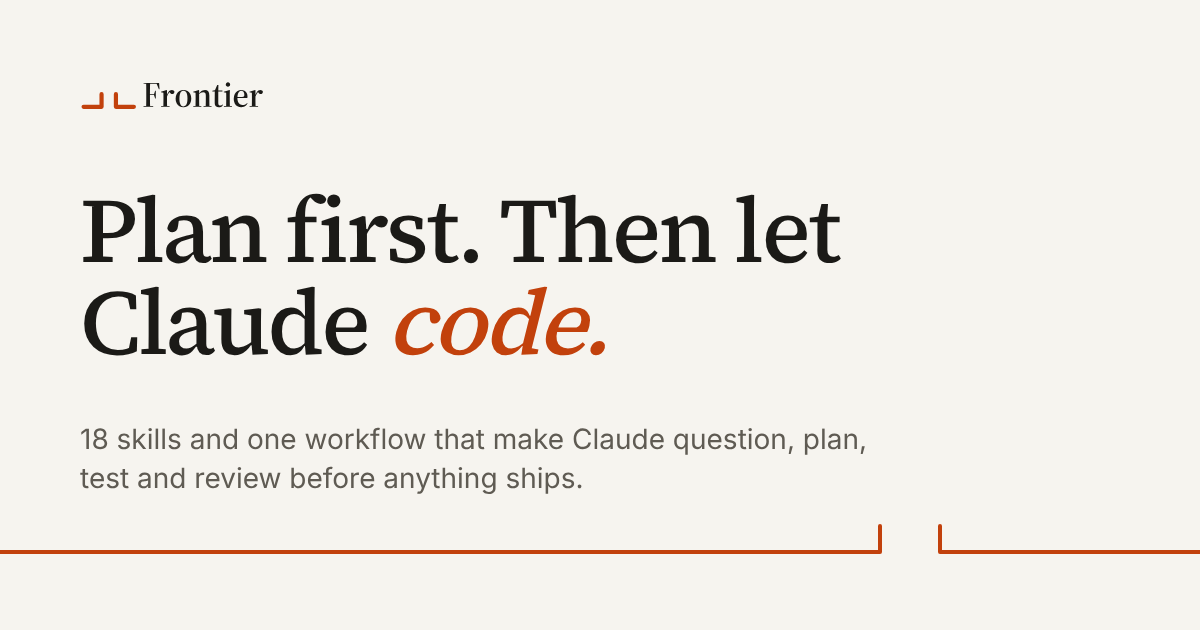
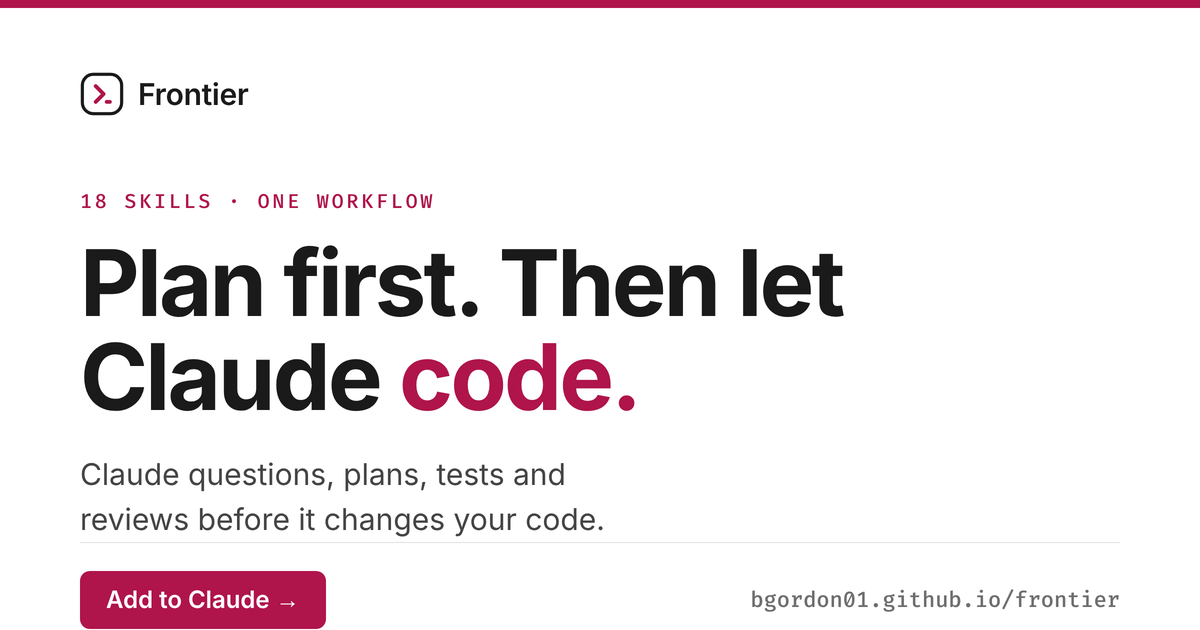
Set up issue tracker; restyle brand assets and docs to the new identity
Setup (setup-matt-pocock-skills): add docs/agents/issue-tracker.md
(GitHub) and docs/agents/domain.md (single-context), and an
"## Agent skills" block in CLAUDE.md. Triage skill isn't installed, so
no label vocabulary was written.

Brand: replace the transit "gate" mark and Source Serif / Overpass
wordmark with the landing page's command-prompt mark (a crimson chevron
+ cursor in a rounded square) and the Inter wordmark. Rebuild
logo{,-on-light,-on-dark}.svg, mark.svg, favicon.svg, and regenerate
favicon-32 / apple-touch-icon / icon-512 / logo.png and a new
crimson/Inter og.png social card.

Docs: update README (via the SVGs), MAINTAINING.md, PRODUCT.md and
docs/frontier/SPEC.md from orange #C2410C / Overpass to crimson #AF144B
/ Inter + Fira Code, and from the transit-diagram page to the shipped
shell + step-list + review-gate layout. DESIGN.md is refreshed
separately via /impeccable document.

Claude-Session: https://claude.ai/code/session_01HRiM7pjDxH7VSkwez6EBS9

diff --git a/docs/agents/issue-tracker.md b/docs/agents/issue-tracker.md
@@ -1,0 +1,39 @@
+# Issue tracker: GitHub
+
+Issues and specs for this repo live as GitHub issues. Use the `gh` CLI for all operations.
+
+## Conventions
+
+- **Create an issue**: `gh issue create --title "..." --body "..."`. Use a heredoc for multi-line bodies.
+- **Read an issue**: `gh issue view <number> --json number,title,body,labels,comments`.
+- **List issues**: `gh issue list --state open --json number,title,body,labels,comments --jq '[.[] | {number, title, body, labels: [.labels[].name], comments: [.comments[].body]}]'` with appropriate `--label` and `--state` filters.
+- **Make an issue a sub-issue of a parent**: `gh issue create --parent <parent> ...`, or `gh issue edit <parent> --add-sub-issue <child>` afterwards (`gh` 2.94+). Older `gh`: `gh api --method POST repos/<owner>/<repo>/issues/<parent>/sub_issues -F sub_issue_id=<child-db-id>` (database id, as in **Blocking** below). Without sub-issues, put `Part of #<parent>` at the top of the child body.
+- **Blocking**: GitHub's **native issue dependencies**, the canonical, UI-visible representation. Add an edge with `gh issue create --blocked-by <n>,<n> ...` or `gh issue edit <child> --add-blocked-by <blocker>` (`gh` 2.94+). Older `gh`: `gh api --method POST repos/<owner>/<repo>/issues/<child>/dependencies/blocked_by -F issue_id=<blocker-db-id>`, where `<blocker-db-id>` is the blocker's numeric **database id** (`gh api repos/<owner>/<repo>/issues/<n> --jq .id`, _not_ the `#number` or `node_id`). Where dependencies aren't available, fall back to a `Blocked by: #<n>, #<n>` line at the top of the child body. A ticket is unblocked when every blocker is closed.
+- **Count open blockers**: `gh api repos/<owner>/<repo>/issues/<n> --jq .issue_dependencies_summary.blocked_by` (open blockers only; 0 means startable). `gh issue view <n> --json blockedBy` also lists closed blockers, so filter it: `--jq '[.blockedBy.nodes[] | select(.state == "OPEN")] | length'`.
+- **Comment on an issue**: `gh issue comment <number> --body "..."`
+- **Apply / remove labels**: `gh issue edit <number> --add-label "..."` / `--remove-label "..."`
+- **Close**: post the explanation with `gh issue comment <number> --body "..."`, then `gh issue close <number>`. On an already-closed issue, `gh issue close --comment` drops the comment and still exits 0.
+
+Infer the repo from `git remote -v`; `gh` does this automatically when run inside a clone. This repo is `bgordon01/frontier`.
+
+File issues only into the user's own repo. Never file into `mattpocock/skills` (the repo these skills come from) unless the user owns it. In a fork, `gh` can default to the upstream parent, so before the first `gh issue create` of a session, check the target with `gh repo view --json nameWithOwner` and confirm it with the user if it is not their repo.
+
+## Pull requests as a triage surface
+
+**PRs as a request surface: no.** _(Set to `yes` if this repo treats external PRs as feature requests; `/triage` reads this flag.)_
+
+When set to `yes`, PRs run through the same labels and states as issues, using the `gh pr` equivalents:
+
+- **Read a PR**: `gh pr view <number>`, then `gh pr view <number> --comments` (off a TTY, `--comments` prints only the comments, not the body), and `gh pr diff <number>` for the diff.
+- **List external PRs for triage**: `gh api --paginate 'repos/{owner}/{repo}/pulls?state=open' --jq '.[] | select(.author_association | IN("OWNER","MEMBER","COLLABORATOR") | not) | {number, title, author: .user.login, author_association, labels: [.labels[].name]}'`.
+- **Comment / label / close**: `gh pr comment`, `gh pr edit --add-label`/`--remove-label`, `gh pr close`.
+
+GitHub shares one number space across issues and PRs, so a bare `#42` may be either: resolve with `gh pr view 42` and fall back to `gh issue view 42`.
+
+## When a skill says "publish to the issue tracker"
+
+Create a GitHub issue.
+
+## When a skill says "fetch the relevant ticket"
+
+Read it as in **Read an issue** above.

diff --git a/docs/frontier/SPEC.md b/docs/frontier/SPEC.md
@@ -15,10 +15,10 @@ Decisions from the grilling session on 2026-11-01. Each line is settled unless m
   - After: grill → spec → tickets → build test-first → review.
 
 ## Structure (in order)
-1. Hero: "Plan first. Then let Claude code." / "18 skills and one workflow that make Claude question, plan, test and review before anything ships." / Add to Claude.
-2. Before/after contrast.
-3. Workflow diagram (the page's one bold element). Main path is "Build something new". Each step shows its skills and their author. Side routes: Improve an existing project, Fix a bug, Write copy.
-4. Review gates: "Nothing changes your files until you say go." Steps that change files carry a gate mark in the diagram.
+1. Hero: "Plan first. Then let Claude code." / sub / Add to Claude, with a review-gate product panel (a paused `/to-spec` step waiting on Go) and a mono stats row. The headline is the page's one bold element.
+2. "Nothing changes your files until you say go": reads-only steps run straight away, write steps wait.
+3. Six-step workflow (Grill → Spec → Tickets → Build → Review → Done), each step tagged reads-only or changes-files and credited to its author.
+4. Other ways in: improve a project, fix a bug, write or edit copy, design a screen.
 5. House rules, shown as the opinions Frontier enforces.
 6. Command table.
 7. Install block: Claude app, Claude Code, cloud sessions. Copy buttons.
@@ -38,17 +38,17 @@ The sets are mapped onto the single workflow, not shown as three equal sections.
 - House copy rules apply; `/stop-slop` runs over final copy.
 
 ## Visual
-- Warm paper and ink. Accent: deep orange `#C2410C` (dark mode `#F28C4B`).
-- Type: Source Serif 4 (headline), Inter (body), JetBrains Mono (commands).
-- Automatic dark mode.
-- 4px spacing grid, no three-equal-cards layouts, one bold element (the workflow diagram).
+- White and ink on a hairline-ruled "shell". Accent: crimson `#AF144B` (hover `#870A3C`).
+- Type: Inter (UI and headlines), Fira Code (commands, labels, code).
+- Light theme only.
+- 4px spacing grid, no three-equal-cards layouts, one bold element (the hero headline).
 
 ## Logo
-- Wordmark "Frontier" in Source Serif 4, plus a symbol that stands alone as favicon and plugin icon.
-- Symbol concept: a horizon line broken by a gate — the review point where you say go. Single stroke, deep orange.
-- Chosen: **B, gate**. Two horizon arms with raised posts either side of a gap. Mark path in a 32×32 box: `M2 20H12V13M20 13V20H30`. Arms are longer than posts so it reads as a line first, not as brackets.
-- The same gate glyph marks "waits for your go" steps in the workflow diagram.
-- Files in `site/assets/`: `logo.svg` (follows light/dark), `logo-on-light.svg`, `logo-on-dark.svg`, `mark.svg`, `favicon.svg`, `favicon-32.png`, `apple-touch-icon.png` (180), `icon-512.png`, `logo.png` (4×), `og.png` (1200×630 social card). Wordmark is outlined Source Serif 4 600, so it renders without the font installed.
+- Wordmark "Frontier" in Inter 600, plus a mark (command-prompt chevron) that stands alone as favicon and plugin icon.
+- Symbol concept: a command prompt — a chevron (`›`) and cursor in a rounded square, for the one command Frontier asks of you (`/start`).
+- Mark path in a 28×28 box: `M10 9L15 14L10 19` (chevron) plus a short cursor underline. Outline on light grounds; filled crimson for app icons and the favicon.
+- The review gate shows in the UI as the "Changes files · waits" tag on steps that write.
+- Files in `site/assets/`: `logo.svg` (follows light/dark), `logo-on-light.svg`, `logo-on-dark.svg`, `mark.svg`, `favicon.svg`, `favicon-32.png`, `apple-touch-icon.png` (180), `icon-512.png`, `logo.png`, `og.png` (1200×630 social card). Wordmark is "Frontier" in Inter 600.
 
 ## Tech and delivery
 - Static `site/index.html`, no build step. JavaScript only for copy buttons.

diff --git a/MAINTAINING.md b/MAINTAINING.md
@@ -121,14 +121,14 @@ Known issue: in some sessions, Claude Code won't load an invoke-only skill even 
 
 ## Brand
 
-The mark is a **gate**: a horizon line broken by a gap with a post on each side. It stands for the review point where you say go, and the same glyph marks the "waits for your go" steps in the workflow diagram on the landing page.
+The mark is a **command prompt**: a chevron (`›`) and cursor inside a rounded square. It stands for running the one command Frontier asks of you — `/start` — and nods to the terminal where it lives. The review gate it used to draw now lives in the UI as the "Changes files · waits" tag on steps that write.
 
 | | |
 |---|---|
-| Mark | Single stroke, `M2 20H12V13M20 13V20H30` in a 32×32 box. The arms are longer than the posts so it reads as a line first, not as brackets. |
-| Wordmark | "Frontier" in Source Serif 4 600, outlined to paths so it renders without the font installed. |
-| Accent | Deep orange `#C2410C` on light, `#F28C4B` on dark. Ink `#1B1A17`, paper text on dark `#EDEAE3`. |
-| Type | The wordmark is Source Serif 4. The landing page uses Overpass and Overpass Mono; see [`DESIGN.md`](DESIGN.md). |
+| Mark | A chevron and cursor in a rounded square (`M10 9L15 14L10 19` plus a short underline, 28×28 and 32×32 boxes). Outline on light grounds; filled crimson for app icons and the favicon. |
+| Wordmark | "Frontier" in Inter 600. |
+| Accent | Crimson `#AF144B` (hover `#870A3C`). Ink `#1A1A1A`, secondary `#444444`. Light theme only. |
+| Type | Inter for the UI and the wordmark, Fira Code for commands, labels and code; see [`DESIGN.md`](DESIGN.md). |
 
 Files in [`site/assets/`](site/assets):
 
@@ -136,8 +136,8 @@ Files in [`site/assets/`](site/assets):
 |---|---|
 | `logo.svg` | Mark and wordmark; switches colours with light/dark mode |
 | `logo-on-light.svg`, `logo-on-dark.svg` | Fixed-colour versions of the logo |
-| `logo.png` | Logo at 4× for places that don't take SVG |
-| `mark.svg` | The gate on its own, for avatars and the plugin icon |
+| `logo.png` | Logo raster (high-res) for places that don't take SVG |
+| `mark.svg` | The mark on its own, for avatars and the plugin icon |
 | `favicon.svg`, `favicon-32.png` | Browser tab icons |
 | `apple-touch-icon.png` (180×180), `icon-512.png` | Home-screen and app icons |
 | `og.png` (1200×630) | Social preview card |

diff --git a/docs/agents/domain.md b/docs/agents/domain.md
@@ -1,0 +1,51 @@
+# Domain Docs
+
+How the engineering skills should consume this repo's domain documentation when exploring the codebase.
+
+## Before exploring, read these
+
+- **`GLOSSARY.md`** at the repo root, or
+- **`GLOSSARY-MAP.md`** at the repo root if it exists: it points at one `GLOSSARY.md` per context. Read each one relevant to the topic.
+- **`docs/adr/`**: read ADRs that touch the area you're about to work in. In multi-context repos, also check `src/<context>/docs/adr/` for context-scoped decisions.
+
+If any of these files don't exist, **proceed silently**. Don't flag their absence; don't suggest creating them upfront. The `/domain-modeling` skill (reached via `/grill-with-docs` and `/improve-codebase-architecture`) creates them lazily when terms or decisions actually get resolved.
+
+## File structure
+
+Single-context repo (this repo):
+
+```
+/
+├── GLOSSARY.md
+├── docs/adr/
+│   ├── 0001-event-sourced-orders.md
+│   └── 0002-postgres-for-write-model.md
+└── src/
+```
+
+Multi-context repo (presence of `GLOSSARY-MAP.md` at the root):
+
+```
+/
+├── GLOSSARY-MAP.md
+├── docs/adr/                          ← system-wide decisions
+└── src/
+    ├── ordering/
+    │   ├── GLOSSARY.md
+    │   └── docs/adr/                  ← context-specific decisions
+    └── billing/
+        ├── GLOSSARY.md
+        └── docs/adr/
+```
+
+## Use the glossary's vocabulary
+
+When your output names a domain concept (in an issue title, a refactor proposal, a hypothesis, a test name), use the term as defined in `GLOSSARY.md`. Don't drift to synonyms the glossary explicitly avoids.
+
+If the concept you need isn't in the glossary yet, that's a signal: either you're inventing language the project doesn't use (reconsider) or there's a real gap (note it for `/domain-modeling`).
+
+## Flag ADR conflicts
+
+If your output contradicts an existing ADR, surface it explicitly rather than silently overriding:
+
+> _Contradicts ADR-0007 (event-sourced orders), but worth reopening because…_

diff --git a/tasks/plan.md b/tasks/plan.md
@@ -8,9 +8,14 @@ note: keep the Workbench/AVAF design language from the recent restyle
 ## Design — give the hero its own visual (priority)
 - [x] shape: hero = "review-gate moment" panel, replaces the terminal (brief confirmed)
 - [x] build the visual into site/index.html — gate panel replaces the terminal; detector clean except stale-DESIGN.md drift; also fixed muted-text contrast (--ink3 #888→#6E6E6E, AA)
-- [ ] critique the result (impeccable critique)
+- [x] critique the result (impeccable critique) — 36/40 Excellent; P1 install-layout + a few P2/P3 (see critique snapshot)
 - [ ] one steer if needed (bolder / quieter / typeset / colorize / layout)
-- [ ] record the look (impeccable document → DESIGN.md)
+- [ ] record the look (impeccable document → DESIGN.md) — DESIGN.md still describes the old transit world; refresh here
+
+## Docs & brand (user request)
+- [x] setup-matt-pocock-skills: GitHub tracker (docs/agents/issue-tracker.md, domain.md, CLAUDE.md block); triage not installed, skipped
+- [x] new landing-page logo across site/assets (logo*.svg, mark.svg, favicon.svg + regenerated PNGs + og.png)
+- [x] refresh README/MAINTAINING/PRODUCT/SPEC brand+design text to crimson/Inter/Fira; DESIGN.md pending via document step
 
 ## Code — read-only health check
 - [ ] improve-codebase-architecture: report what's hard to work with

diff --git a/PRODUCT.md b/PRODUCT.md
@@ -28,8 +28,8 @@ It moves the work to the parts only the user can do — deciding what to build a
 
 ## Brand Commitments
 - Name: Frontier.
-- Gate mark: a horizon line broken by a gate, path `M2 20H12V13M20 13V20H30` in a 32×32 box. The same glyph marks "waits for your go" steps.
-- Orange accent: `#C2410C` (lighter `#F28C4B` on dark grounds).
+- Mark: a command-prompt chevron (`›`) and cursor in a rounded square (`site/assets/mark.svg`). The review gate shows in the UI as the "Changes files · waits" tag on steps that write.
+- Crimson accent: `#AF144B` (hover `#870A3C`). Inter for UI, Fira Code for commands and labels.
 - Voice: blunt, second person, opinionated; mechanisms and numbers over adjectives. Concise: one-line ledes, nothing that doesn't earn its place.
 - Light theme only. No dark mode, no automatic or manual theme switch.
 - Clean, with generous white space.

diff --git a/CLAUDE.md b/CLAUDE.md
@@ -1,3 +1,13 @@
 # CLAUDE.md
 
 At the start of any new session, prompt Brent to run `/start` before building. Shape and confirm the approach first — don't jump straight to a solution.
+
+## Agent skills
+
+### Issue tracker
+
+Issues and specs live in GitHub Issues on `bgordon01/frontier`, via the `gh` CLI. See `docs/agents/issue-tracker.md`.
+
+### Domain docs
+
+Single-context: one `GLOSSARY.md` and `docs/adr/` at the repo root. See `docs/agents/domain.md`.
